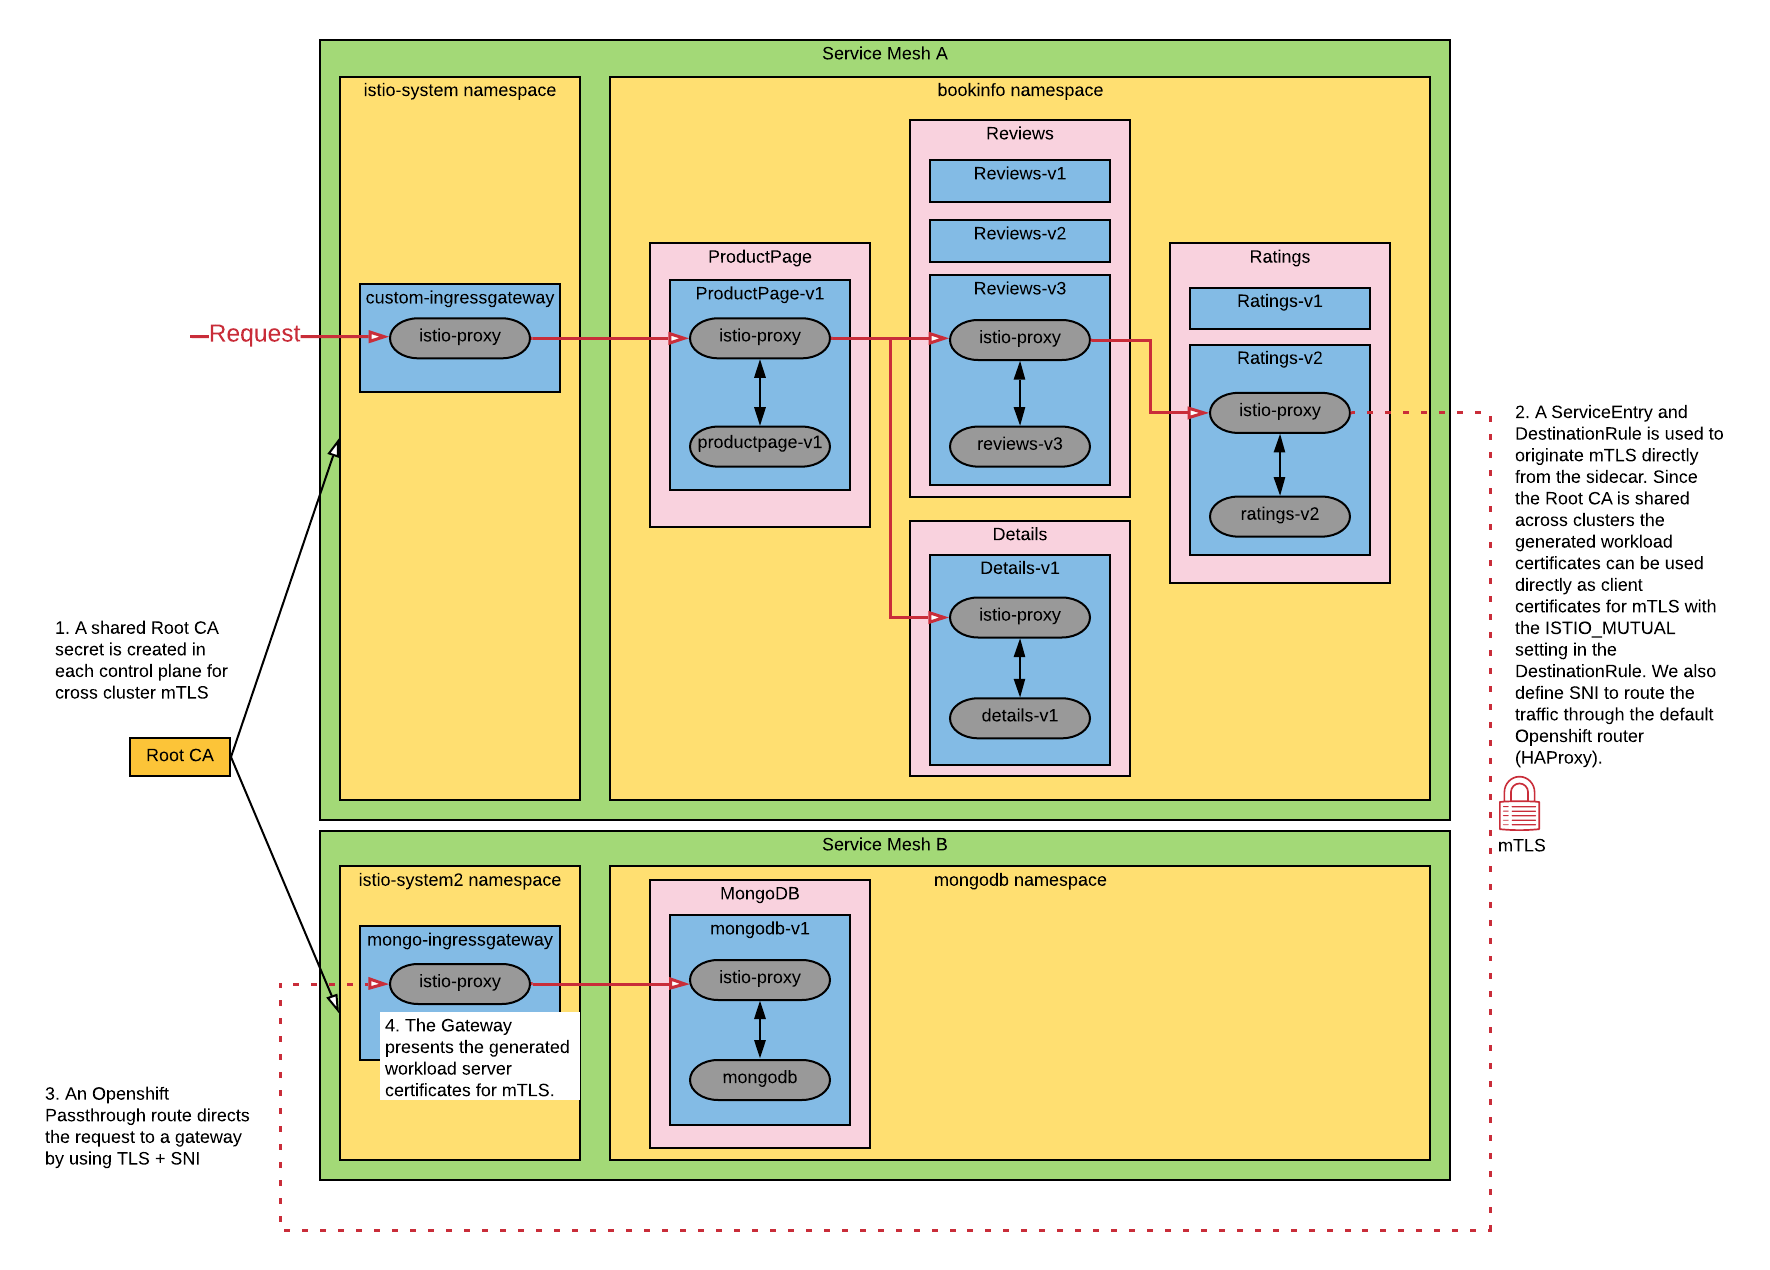
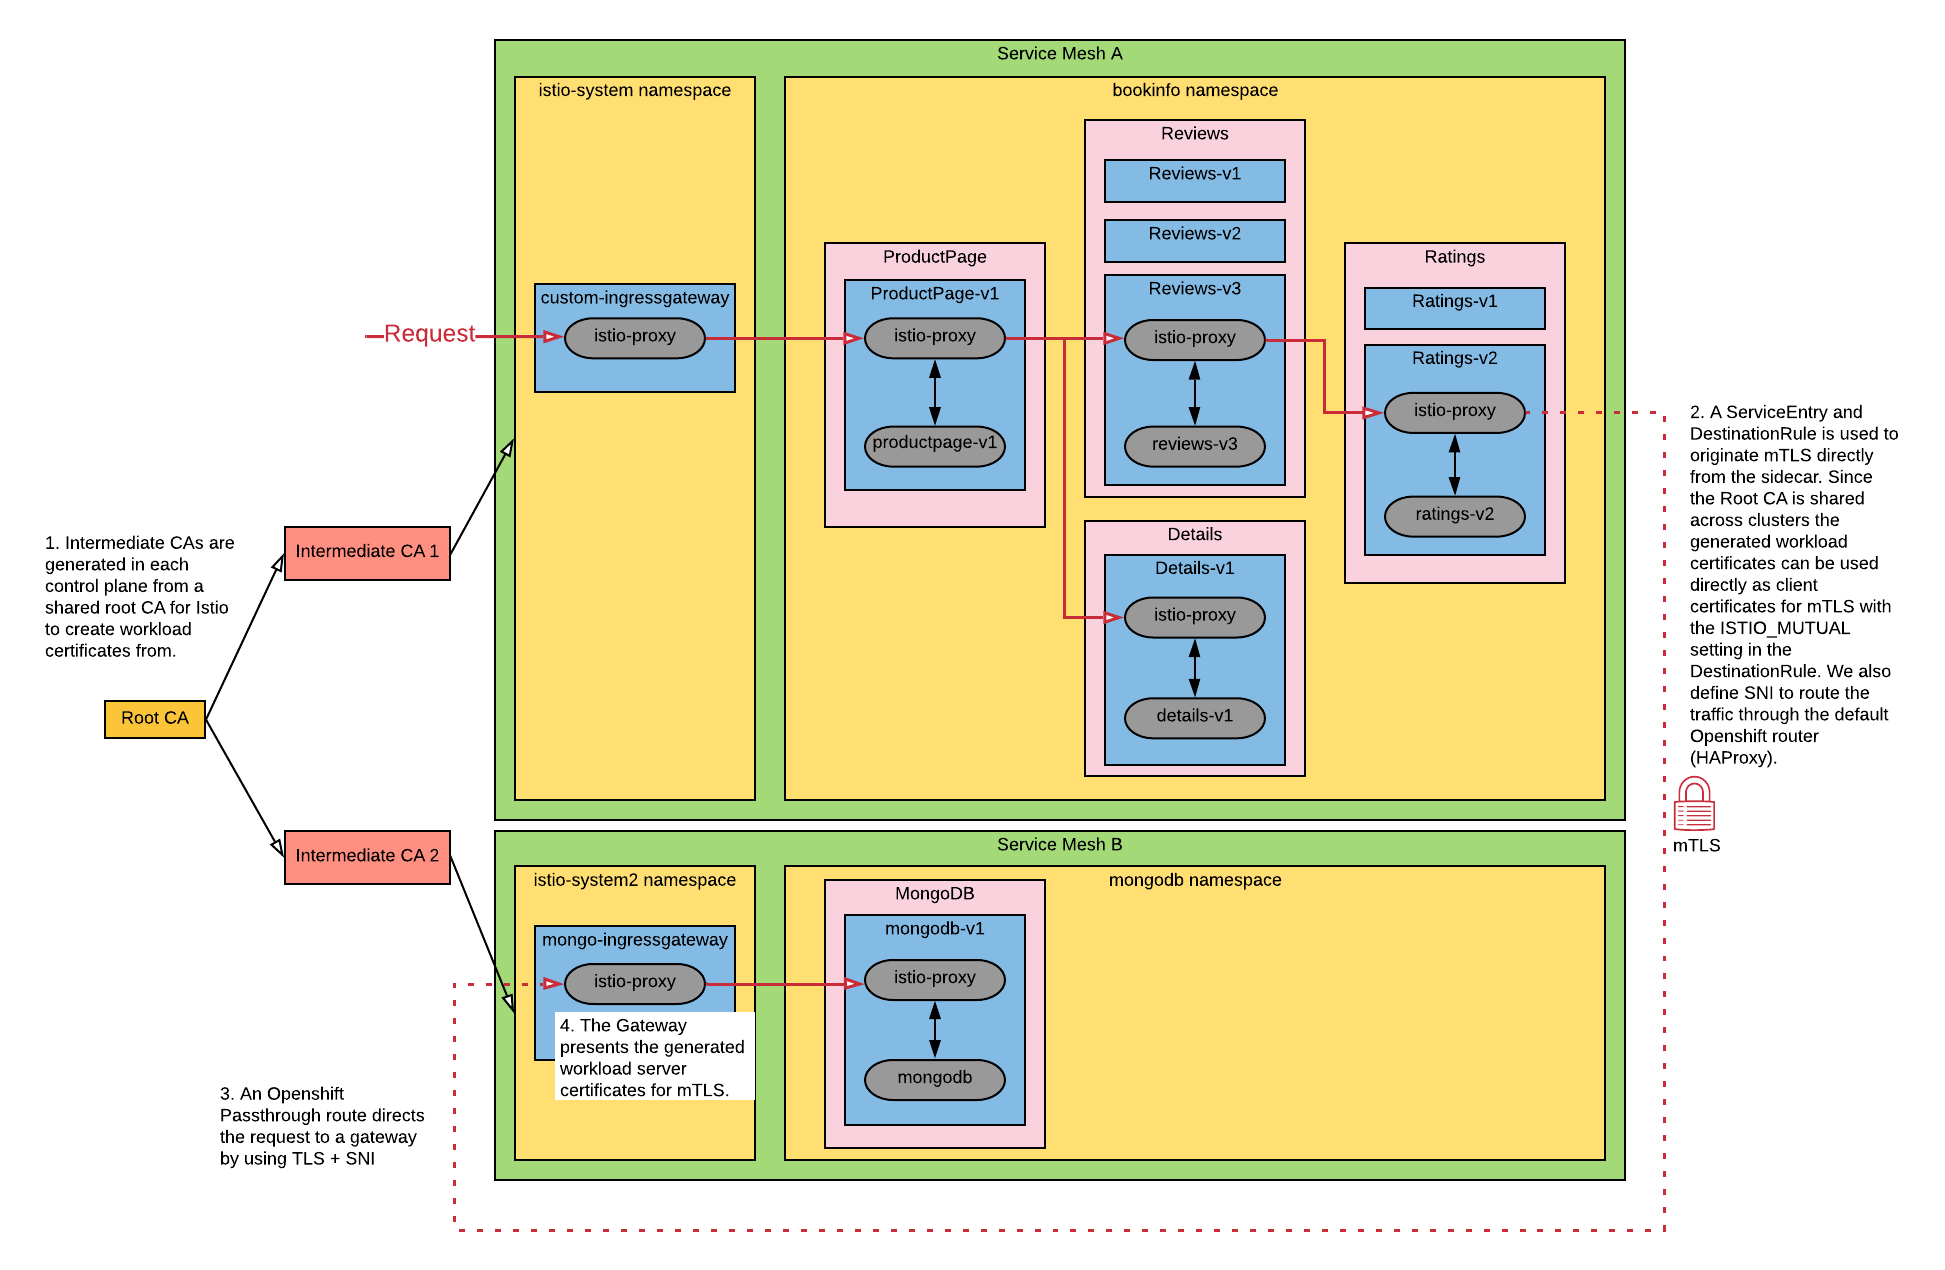
intermediate cert example

Changed region(s): [[0.0311, 0.0307, 0.9633, 0.952]]

diff --git a/ossm-2.0/multi-cluster-trust/README.md b/ossm-2.0/multi-cluster-trust/README.md
@@ -2,7 +2,7 @@
 
 ## Introduction
 
-Mutual TLS (mTLS), which provides trusted communication between both a client and a server, is a primary motivation for using Red Hat Openshift Service Mesh. With a simple configuration all communication between services in a mesh can communicate with mTLS but if your organization has a requirement to implement Multicluster Service Meshes, you can still utilize mTLS for cross-cluster communication provided that both Service Mesh Control Planes (SMCPs) are configured to use the same [root certificate](https://en.wikipedia.org/wiki/Root_certificate) authority (CA) when signing workload certificates. Additionally, mTLS can be performed directly from a sidecar to another control plane's ingress gateway. The result is federated trust between SMCPs.
+Mutual TLS (mTLS), which provides trusted communication between both a client and a server, is a primary motivation for using Red Hat Openshift Service Mesh. With a simple configuration all communication between services in a mesh can communicate with mTLS but if your organization has a requirement to implement Multicluster Service Meshes, you can still utilize mTLS for cross-cluster communication provided that both Service Mesh Control Planes (SMCPs) are configured to use intermediate certificates generated from the same [root certificate](https://en.wikipedia.org/wiki/Root_certificate) authority (CA) when signing workload certificates. Additionally, mTLS can be performed directly from a sidecar to another control plane's ingress gateway. The result is federated trust between SMCPs.
 
 ## Example
 
@@ -32,28 +32,44 @@ oc new-project mongodb
 ```shell
 #Service Mesh A
 oc apply --validate=false -f https://github.com/jetstack/cert-manager/releases/download/v1.0.4/cert-manager.yaml
+helm repo add jetstack https://charts.jetstack.io
+helm repo update
+helm install \
+  cert-manager jetstack/cert-manager \
+  --namespace cert-manager \
+  --create-namespace \
+  --version v1.3.1 \
+  --set installCRDs=true
 ```
 
-### Deploy local root CA to both control planes
+### Deploy local intermediate CAs to both control planes
 
 ```shell
 #Service Mesh A
-helm upgrade -i --create-namespace cert-manager -n cert-manager helm/cert-manager
+helm upgrade -i --create-namespace certs -n cert-manager helm/cert-manager
 
-export tls_crt=$(oc get secret rootca -n cert-manager -o jsonpath='{.data.tls\.crt}')
-export tls_key=$(oc get secret rootca -n cert-manager -o jsonpath='{.data.tls\.key}')
+export tls_crt=$(oc get secret intermediate-ca-1 -n cert-manager -o jsonpath='{.data.tls\.crt}')
+export tls_key=$(oc get secret intermediate-ca-1 -n cert-manager -o jsonpath='{.data.tls\.key}')
+export ca_crt=$(oc get secret intermediate-ca-1 -n cert-manager -o jsonpath='{.data.ca\.crt}')
 
 helm upgrade -i rootca helm/install-cacerts -n istio-system \
   --set rootca.tls_crt=${tls_crt} \
-  --set rootca.tls_key=${tls_key}
+  --set rootca.tls_key=${tls_key} \
+  --set rootca.ca_crt=${ca_crt}
+
+export tls_crt=$(oc get secret intermediate-ca-2 -n cert-manager -o jsonpath='{.data.tls\.crt}')
+export tls_key=$(oc get secret intermediate-ca-2 -n cert-manager -o jsonpath='{.data.tls\.key}')
+export ca_crt=$(oc get secret intermediate-ca-2 -n cert-manager -o jsonpath='{.data.ca\.crt}')
 
 #Service Mesh B
+
 helm upgrade -i rootca helm/install-cacerts -n istio-system2 \
   --set rootca.tls_crt=${tls_crt} \
-  --set rootca.tls_key=${tls_key}
+  --set rootca.tls_key=${tls_key} \
+  --set rootca.ca_crt=${ca_crt}
 ```
 
-### Install control planes using common root cacerts
+### Install control planes using intermediate cacerts
 
 > Note: Istiod will use the **cacerts** secret (created in both control planes from previous commands) as the root certificate instead of its own self-signed certificate.
 
